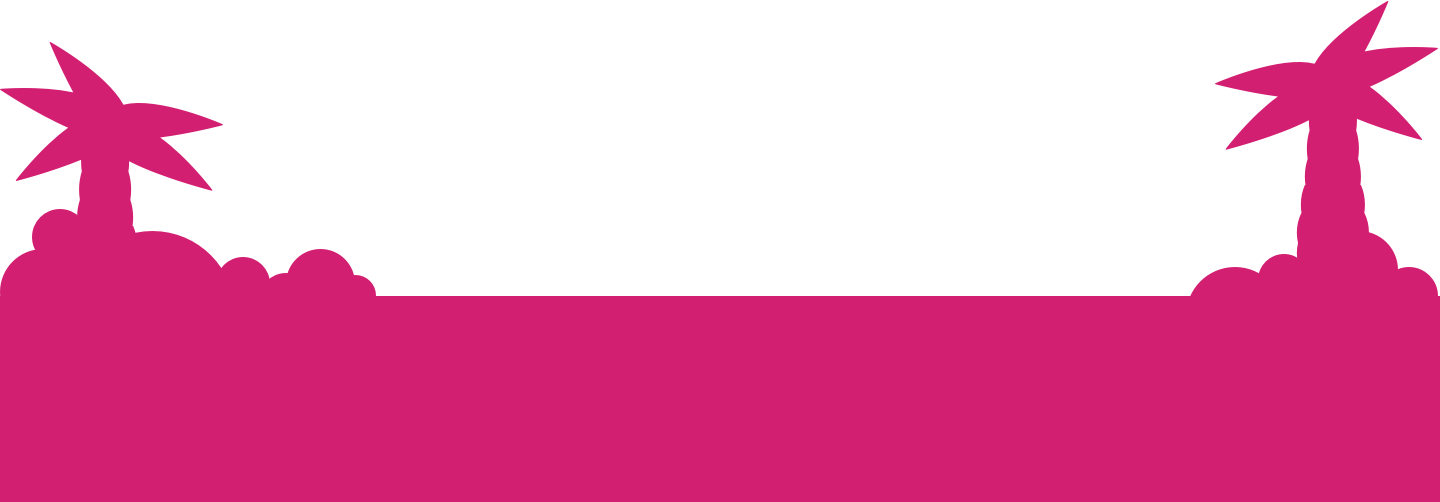
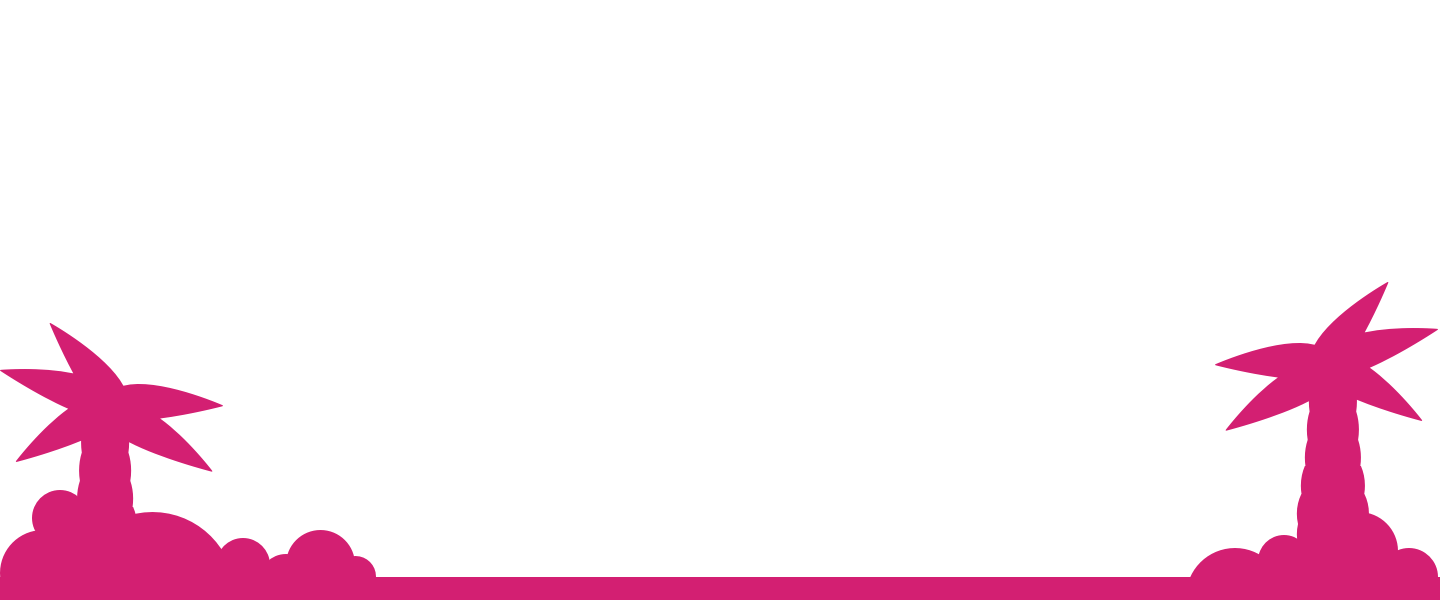
Changing images

diff --git a/static/css/main.min.css b/static/css/main.min.css
@@ -1,1 +1,1 @@
-/*! normalize.css v3.0.3 | MIT License | github.com/necolas/normalize.css */html{font-family:sans-serif;-ms-text-size-adjust:100%;-webkit-text-size-adjust:100%}body{margin:0}article,aside,details,figcaption,figure,footer,header,hgroup,main,menu,nav,section,summary{display:block}audio,canvas,progress,video{display:inline-block;vertical-align:baseline}audio:not([controls]){display:none;height:0}[hidden],template{display:none}a{background-color:transparent}a:active,a:hover{outline:0}abbr[title]{border-bottom:1px dotted}b,strong{font-weight:bold}dfn{font-style:italic}h1{font-size:2em;margin:0.67em 0}mark{background:#ff0;color:#000}small{font-size:80%}sub,sup{font-size:75%;line-height:0;position:relative;vertical-align:baseline}sup{top:-0.5em}sub{bottom:-0.25em}img{border:0}svg:not(:root){overflow:hidden}figure{margin:1em 40px}hr{box-sizing:content-box;height:0}pre{overflow:auto}code,kbd,pre,samp{font-family:monospace, monospace;font-size:1em}button,input,optgroup,select,textarea{color:inherit;font:inherit;margin:0}button{overflow:visible}button,select{text-transform:none}button,html input[type="button"],input[type="reset"],input[type="submit"]{-webkit-appearance:button;cursor:pointer}button[disabled],html input[disabled]{cursor:default}button::-moz-focus-inner,input::-moz-focus-inner{border:0;padding:0}input{line-height:normal}input[type="checkbox"],input[type="radio"]{box-sizing:border-box;padding:0}input[type="number"]::-webkit-inner-spin-button,input[type="number"]::-webkit-outer-spin-button{height:auto}input[type="search"]{-webkit-appearance:textfield;box-sizing:content-box}input[type="search"]::-webkit-search-cancel-button,input[type="search"]::-webkit-search-decoration{-webkit-appearance:none}fieldset{border:1px solid #c0c0c0;margin:0 2px;padding:0.35em 0.625em 0.75em}legend{border:0;padding:0}textarea{overflow:auto}optgroup{font-weight:bold}table{border-collapse:collapse;border-spacing:0}td,th{padding:0}html{box-sizing:border-box}*,*::before,*::after{box-sizing:inherit}a{color:#e50050;text-decoration:none}a:hover,a:active,a:focus{color:#222;text-decoration:underline}body{color:#222;font:normal 125%/1.4 "Open Sans","Helvetica Neue Light","Helvetica Neue","Helvetica","Arial",sans-serif}.clearfix::after{clear:both;content:'';display:table}.container{max-width:1180px;margin-left:auto;margin-right:auto;padding-left:20px;padding-right:20px;width:100%}.hide-text{overflow:hidden;padding:0;text-indent:101%;white-space:nowrap}.visually-hidden{border:0;clip:rect(0 0 0 0);height:1px;margin:-1px;overflow:hidden;padding:0;position:absolute;width:1px}#heroMaya{background:#f5a623;height:30rem}#heroMaya img{position:absolute}#heroMaya .sun{right:20%;top:2rem;width:70%;z-index:0}#heroMaya .orangeBackground{right:6%;top:13rem;width:90%;z-index:1}#heroMaya .title{right:35%;top:3rem;width:54%;z-index:2}#heroMaya .palm{right:10%;top:17rem;width:80%;z-index:3}#heroMaya .pyramid{right:15%;top:13rem;width:33%;z-index:4}#heroMaya .pinkBackground{top:10rem;width:100%;z-index:5}
+/*! normalize.css v3.0.3 | MIT License | github.com/necolas/normalize.css */html{font-family:sans-serif;-ms-text-size-adjust:100%;-webkit-text-size-adjust:100%}body{margin:0}article,aside,details,figcaption,figure,footer,header,hgroup,main,menu,nav,section,summary{display:block}audio,canvas,progress,video{display:inline-block;vertical-align:baseline}audio:not([controls]){display:none;height:0}[hidden],template{display:none}a{background-color:transparent}a:active,a:hover{outline:0}abbr[title]{border-bottom:1px dotted}b,strong{font-weight:bold}dfn{font-style:italic}h1{font-size:2em;margin:0.67em 0}mark{background:#ff0;color:#000}small{font-size:80%}sub,sup{font-size:75%;line-height:0;position:relative;vertical-align:baseline}sup{top:-0.5em}sub{bottom:-0.25em}img{border:0}svg:not(:root){overflow:hidden}figure{margin:1em 40px}hr{box-sizing:content-box;height:0}pre{overflow:auto}code,kbd,pre,samp{font-family:monospace, monospace;font-size:1em}button,input,optgroup,select,textarea{color:inherit;font:inherit;margin:0}button{overflow:visible}button,select{text-transform:none}button,html input[type="button"],input[type="reset"],input[type="submit"]{-webkit-appearance:button;cursor:pointer}button[disabled],html input[disabled]{cursor:default}button::-moz-focus-inner,input::-moz-focus-inner{border:0;padding:0}input{line-height:normal}input[type="checkbox"],input[type="radio"]{box-sizing:border-box;padding:0}input[type="number"]::-webkit-inner-spin-button,input[type="number"]::-webkit-outer-spin-button{height:auto}input[type="search"]{-webkit-appearance:textfield;box-sizing:content-box}input[type="search"]::-webkit-search-cancel-button,input[type="search"]::-webkit-search-decoration{-webkit-appearance:none}fieldset{border:1px solid #c0c0c0;margin:0 2px;padding:0.35em 0.625em 0.75em}legend{border:0;padding:0}textarea{overflow:auto}optgroup{font-weight:bold}table{border-collapse:collapse;border-spacing:0}td,th{padding:0}html{box-sizing:border-box}*,*::before,*::after{box-sizing:inherit}a{color:#e50050;text-decoration:none}a:hover,a:active,a:focus{color:#222;text-decoration:underline}body{color:#222;font:normal 125%/1.4 "Open Sans","Helvetica Neue Light","Helvetica Neue","Helvetica","Arial",sans-serif}.clearfix::after{clear:both;content:'';display:table}.container{max-width:1180px;margin-left:auto;margin-right:auto;padding-left:20px;padding-right:20px;width:100%}.hide-text{overflow:hidden;padding:0;text-indent:101%;white-space:nowrap}.visually-hidden{border:0;clip:rect(0 0 0 0);height:1px;margin:-1px;overflow:hidden;padding:0;position:absolute;width:1px}#heroMaya{background:#f5a623;height:24.5rem}#heroMaya img{position:absolute;width:100%}#heroMaya .sun{z-index:0}#heroMaya .orangeBackground{z-index:1}#heroMaya .title{z-index:2}#heroMaya .palm{z-index:3}#heroMaya .pyramid{z-index:4}#heroMaya .pinkBackground{z-index:5}

diff --git a/static/src/scss/pages/_home-maya.scss b/static/src/scss/pages/_home-maya.scss
@@ -1,43 +1,30 @@
 #heroMaya {
 	background: #f5a623;
-	height: 30rem;
+	height: 24.5rem;
 	& img {
 		position: absolute;
+		width: 100%;
 	}
 	& .sun {
-		right: 20%;
-		top: 2rem;
-		width: 70%;
+
 		z-index: 0;
 	}
 	& .orangeBackground {
-		right: 6%;
-		top: 13rem;
-		width: 90%;
+
 		z-index: 1;
 	}
 	& .title {
-		right: 35%;
-		top: 3rem;
-		width: 54%;
+
 		z-index: 2;
 	}
 	& .palm {
-		right: 10%;
-		top: 17rem;
-		width: 80%;
+
 		z-index: 3;
 	}
 	& .pyramid {
-		right: 15%;
-		top: 13rem;
-		width: 33%;
 		z-index: 4;
-
 	}
 	& .pinkBackground {
-		top: 10rem;
-		width: 100%;
 		z-index: 5;
 	}
 
